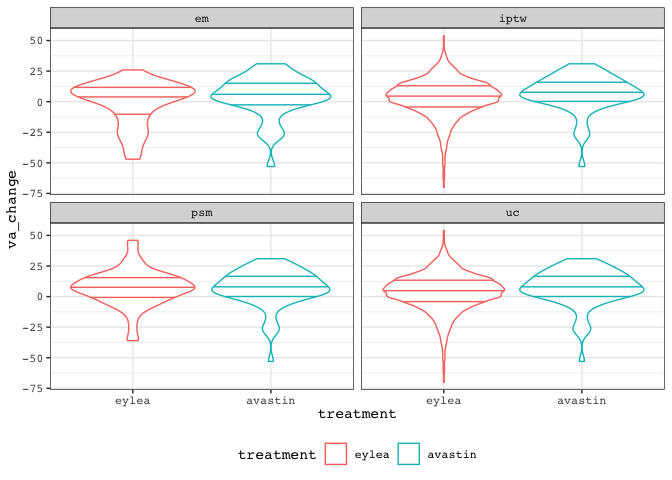
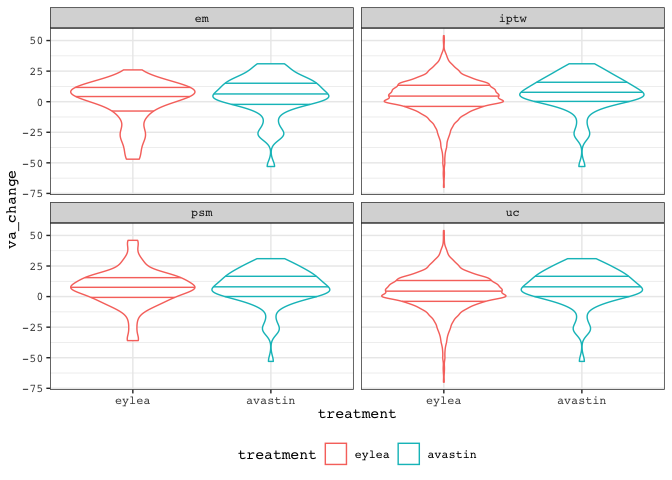
To adhere to journal requirements.

diff --git a/1_noninferiority/1_noninferiority.md b/1_noninferiority/1_noninferiority.md
@@ -1,7 +1,7 @@
 noninferiority
 ================
 Darren S Thomas
-20 July, 2020
+05 August, 2020
 
 # read\_data
 
@@ -128,13 +128,13 @@ z.tbl %>%
     ## # Groups:   cohort [4]
     ##   cohort treatment mean_exit_va
     ##   <chr>  <fct>            <dbl>
-    ## 1 em     eylea             50.5
+    ## 1 em     eylea             50.9
     ## 2 em     avastin           56.1
-    ## 3 iptw   eylea             55.7
+    ## 3 iptw   eylea             56  
     ## 4 iptw   avastin           58  
     ## 5 psm    eylea             60.4
     ## 6 psm    avastin           58  
-    ## 7 uc     eylea             55.9
+    ## 7 uc     eylea             55.8
     ## 8 uc     avastin           58
 
 # uc
@@ -154,8 +154,8 @@ uc.lm
     ## # A tibble: 2 x 8
     ##   term           estimate std.error statistic  p.value conf.low conf.high method
     ##   <chr>             <dbl>     <dbl>     <dbl>    <dbl>    <dbl>     <dbl> <chr> 
-    ## 1 (Intercept)        3.80     0.231     16.4  7.81e-59    3.34       4.25 UC    
-    ## 2 treatmentavas…     3.24     1.91       1.70 9.01e- 2   -0.506      6.98 UC
+    ## 1 (Intercept)        3.71     0.226     16.4  8.95e-59    3.26       4.15 UC    
+    ## 2 treatmentavas…     3.32     1.89       1.76 7.82e- 2   -0.376      7.03 UC
 
 # iptw
 
@@ -175,8 +175,8 @@ iptw.lm
     ## # A tibble: 2 x 8
     ##   term           estimate std.error statistic  p.value conf.low conf.high method
     ##   <chr>             <dbl>     <dbl>     <dbl>    <dbl>    <dbl>     <dbl> <chr> 
-    ## 1 (Intercept)        3.39     0.237     14.3  2.47e-45    2.92       3.85 IPTW  
-    ## 2 treatmentavas…     3.26     1.93       1.68 9.22e- 2   -0.534      7.05 IPTW
+    ## 1 (Intercept)        3.84     0.232     16.6  6.41e-60    3.39       4.30 IPTW  
+    ## 2 treatmentavas…     2.80     1.88       1.49 1.36e- 1   -0.880      6.49 IPTW
 
 # em
 
@@ -195,8 +195,8 @@ em.lm
     ## # A tibble: 2 x 8
     ##   term            estimate std.error statistic p.value conf.low conf.high method
     ##   <chr>              <dbl>     <dbl>     <dbl>   <dbl>    <dbl>     <dbl> <chr> 
-    ## 1 (Intercept)        -1.14      2.71    -0.421   0.675    -6.54      4.26 EM    
-    ## 2 treatmentavast…     5.64      3.84     1.47    0.145    -2.00     13.3  EM
+    ## 1 (Intercept)       -0.512      2.64    -0.194   0.847    -5.76      4.73 EM    
+    ## 2 treatmentavast…    5.19       3.73     1.39    0.168    -2.23     12.6  EM
 
 # psm
 
@@ -318,7 +318,7 @@ ggsave(
   device = "tiff",
   path = "../figs",
   width = 86,
-  height = 100,
+  height = 86,
   units = "mm",
   dpi = 300
 )
